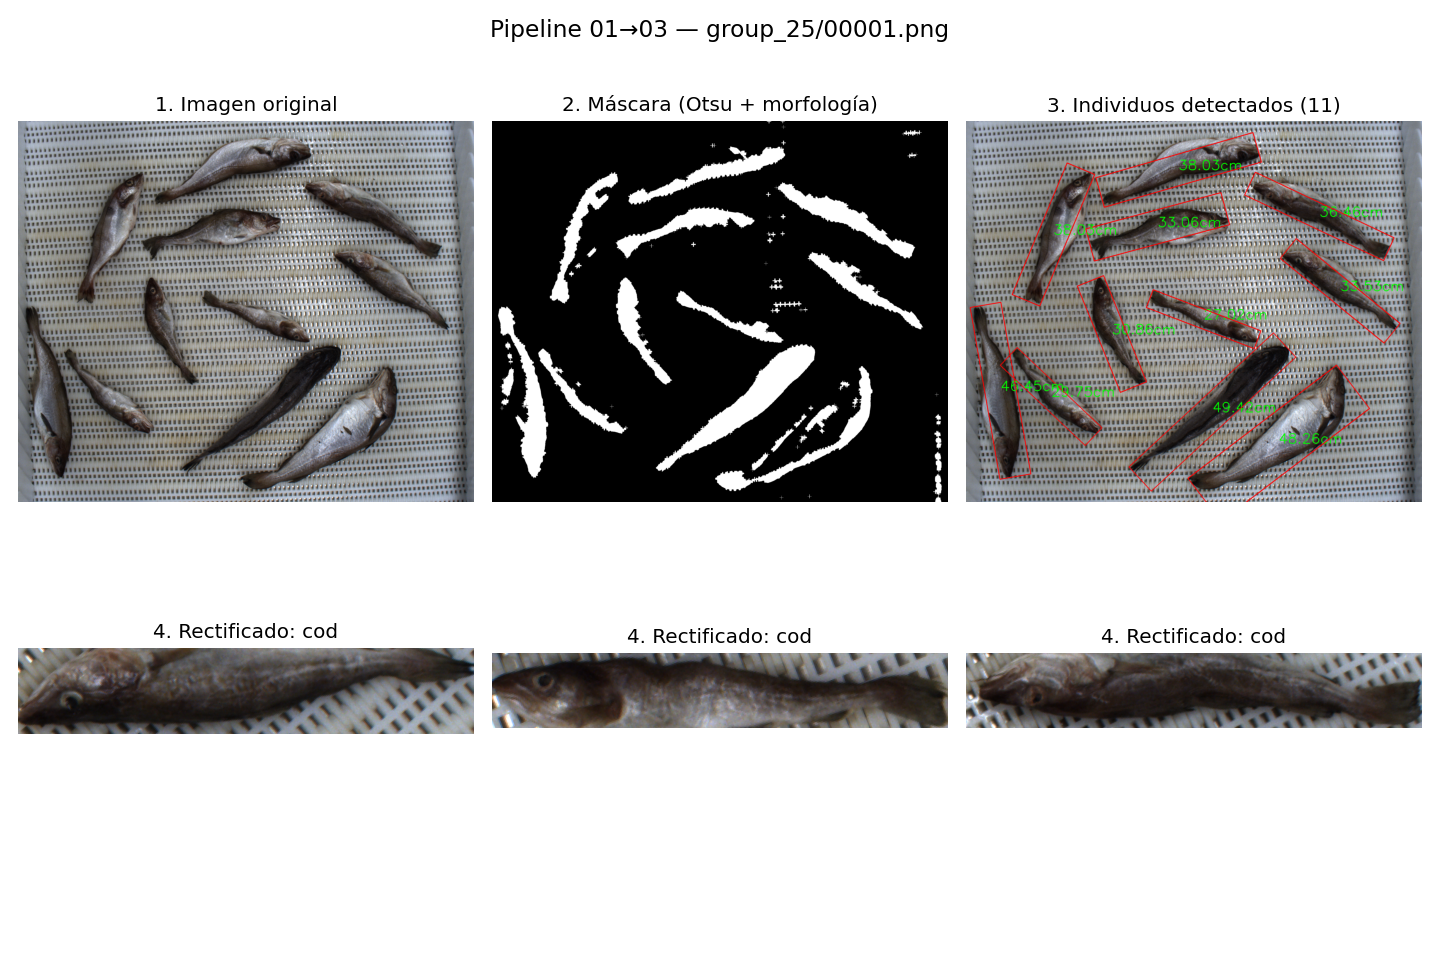
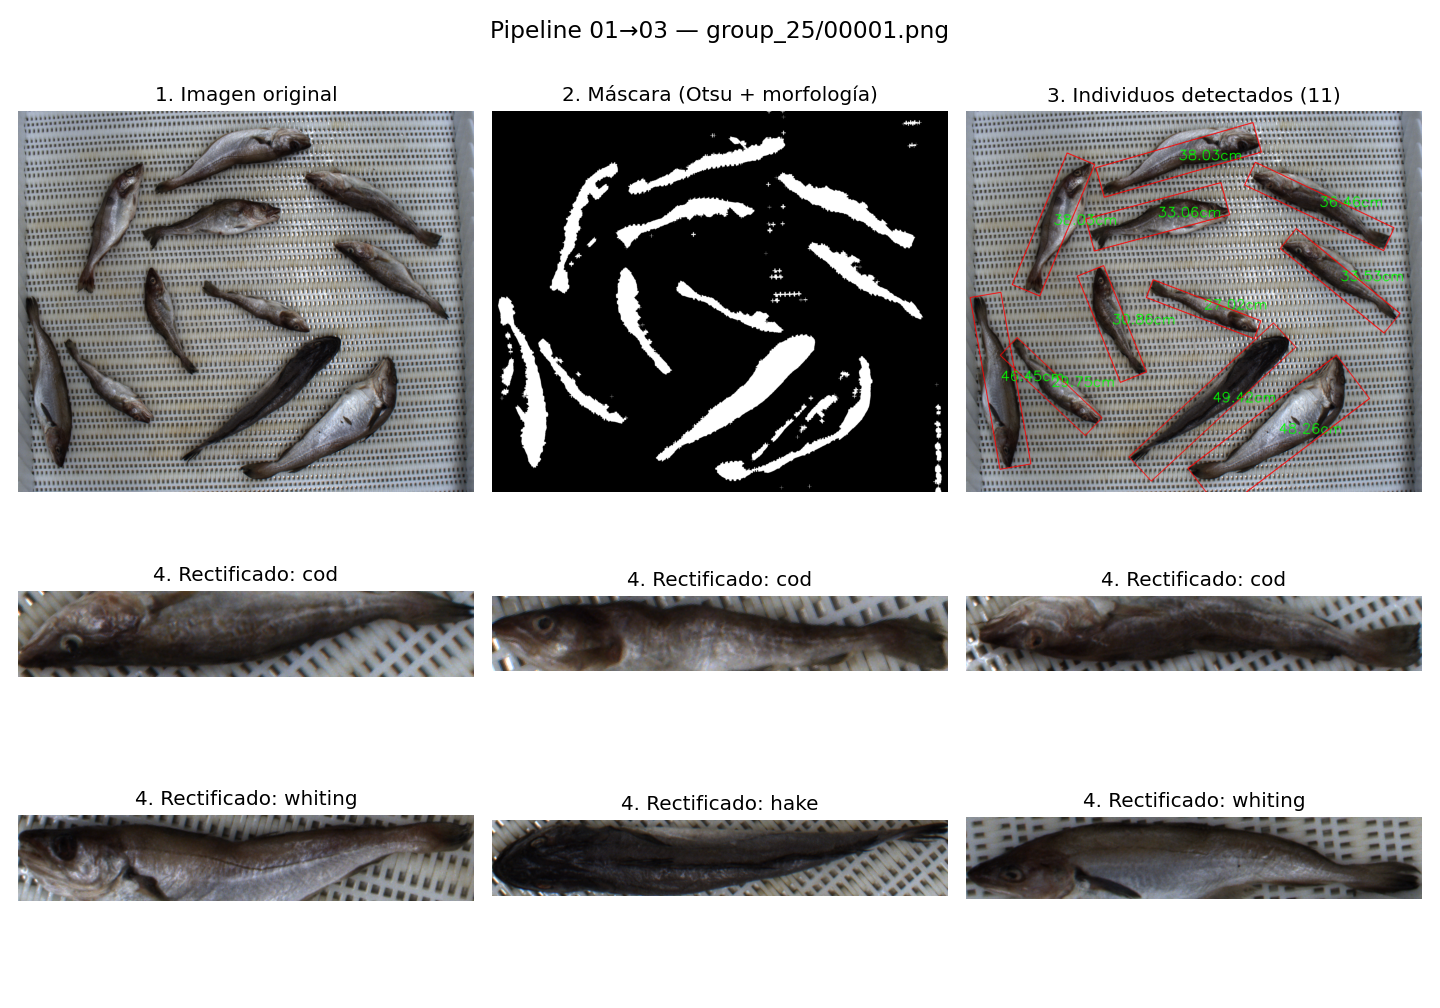
.

diff --git a/pruebas/figuras_informe.py b/pruebas/figuras_informe.py
@@ -28,7 +28,7 @@ def _bgr_a_rgb(imagen: np.ndarray) -> np.ndarray:
     return cv2.cvtColor(imagen, cv2.COLOR_BGR2RGB)
 
 
-def figura_pipeline(group_id: int = 25, image_id: int = 1) -> None:
+def figura_pipeline(group_id: int = 25, image_id: int = 1, n_crops: int = 6) -> None:
     """Figura paso a paso: imagen original -> máscara -> individuos detectados -> recortes rectificados."""
     anotaciones = entrada.cargar_anotaciones()
     imagen, info = entrada.cargar_imagen(group_id, image_id, anotaciones)
@@ -42,9 +42,15 @@ def figura_pipeline(group_id: int = 25, image_id: int = 1) -> None:
         mostrar=False, guardar=False, verbose=False, anotaciones=anotaciones,
     )
 
-    n_crops = min(3, len(resultados))
-    cols = max(3, n_crops)
-    fig, axes = plt.subplots(2, cols, figsize=(4 * cols, 8))
+    cols = 3
+    n_crops = min(n_crops, len(resultados))
+    filas_crops = max(1, (n_crops + cols - 1) // cols)
+    alto_fila_crop = 2.2  # los recortes son tiras finas, no necesitan tanto alto como la fila 1
+    fig, axes = plt.subplots(
+        1 + filas_crops, cols,
+        figsize=(4 * cols, 4 + alto_fila_crop * filas_crops),
+        gridspec_kw={"height_ratios": [4] + [alto_fila_crop] * filas_crops},
+    )
 
     axes[0, 0].imshow(_bgr_a_rgb(imagen))
     axes[0, 0].set_title("1. Imagen original")
@@ -57,8 +63,9 @@ def figura_pipeline(group_id: int = 25, image_id: int = 1) -> None:
 
     for i in range(n_crops):
         crop, pez = resultados[i]
-        axes[1, i].imshow(_bgr_a_rgb(crop))
-        axes[1, i].set_title(f"4. Rectificado: {pez['especie']}")
+        fila, col = divmod(i, cols)
+        axes[1 + fila, col].imshow(_bgr_a_rgb(crop))
+        axes[1 + fila, col].set_title(f"4. Rectificado: {pez['especie']}")
 
     for ax in axes.flat:
         ax.axis("off")